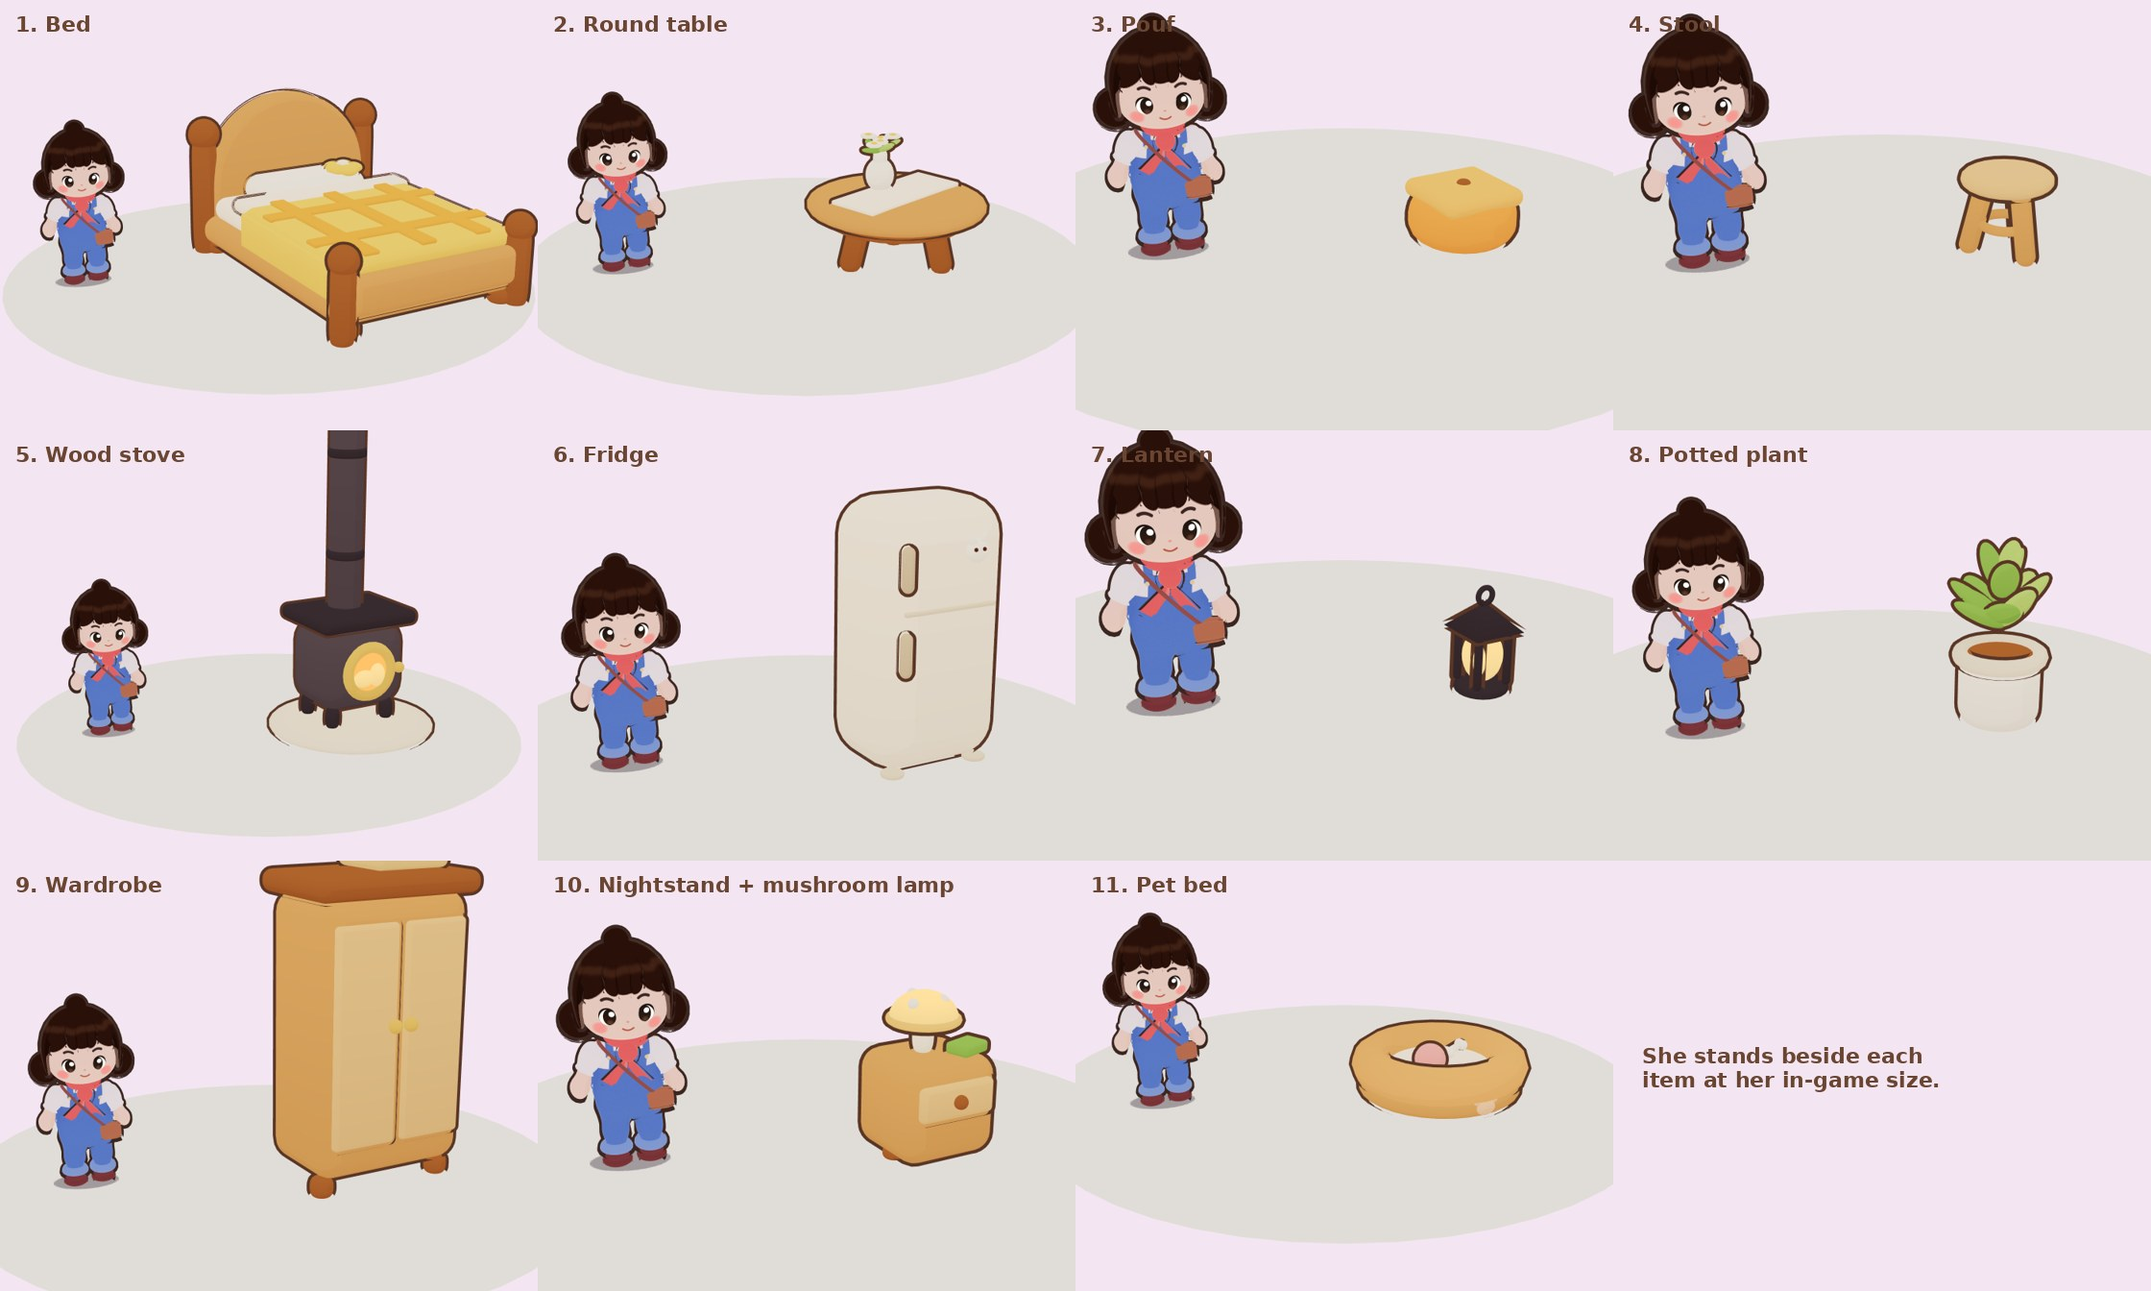
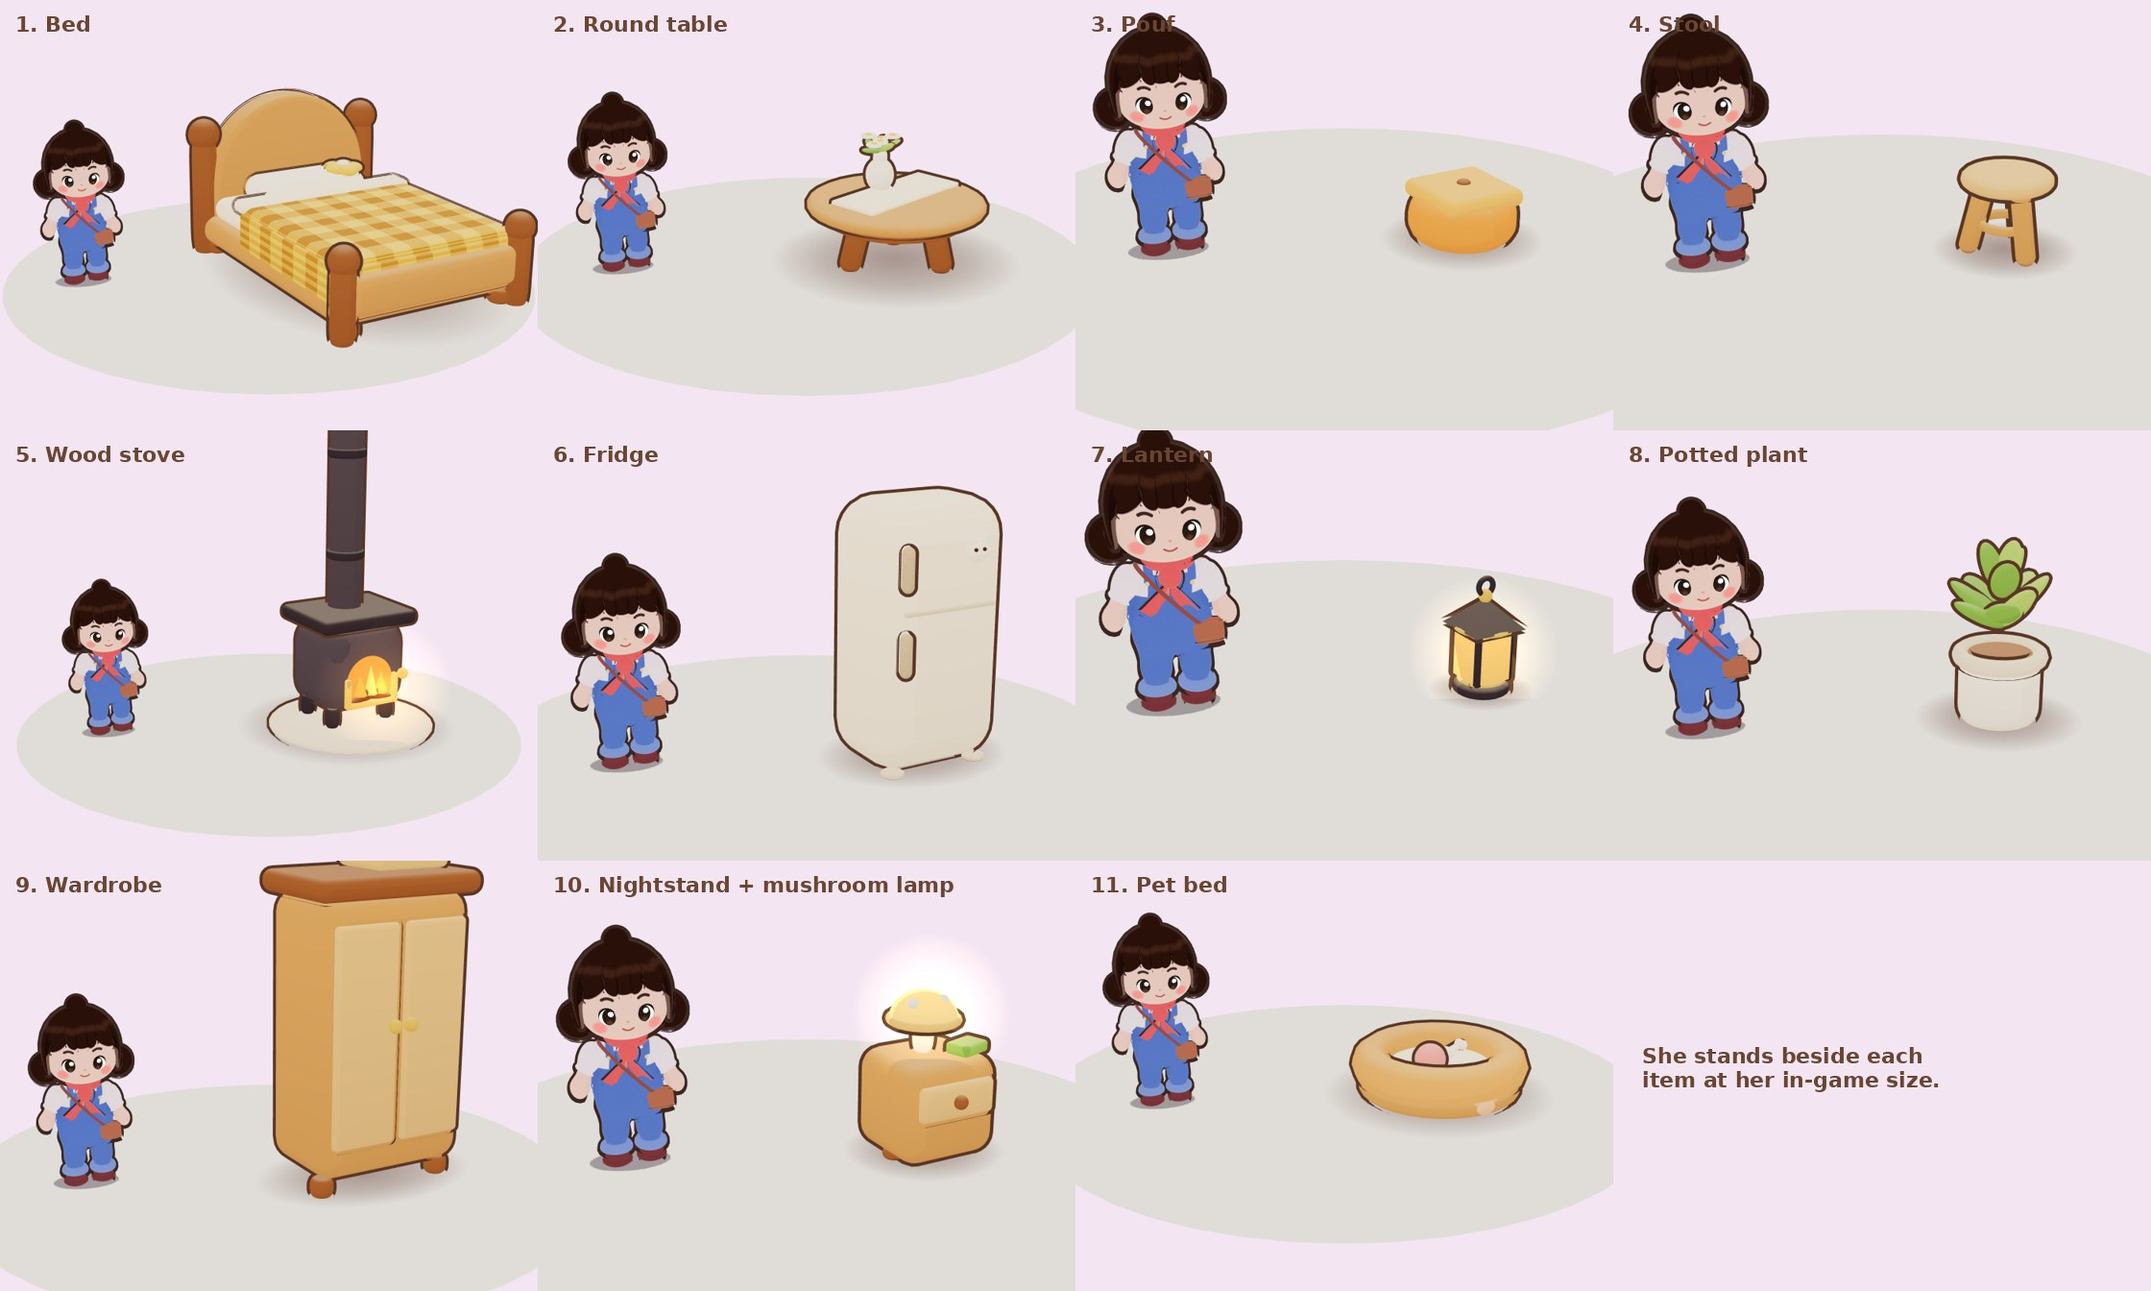
Prop kit: contact shadows, top sheen, gingham fabric, warm glow halos
Kit-level (every prop): a soft warm contact shadow under each item, a
creamy sheen on up-facing surfaces baked into the vertex colours, a
gingham textile material for quilts/cushions, and additive halo sprites
for light sources. Items: the bed quilt is real gingham instead of raised
bars; the lantern has warm glass panes and a bright core; the wood stove
shows logs and flames behind an arched window; the mushroom lamp glows.

Claude-Session: https://claude.ai/code/session_01CNaBwL7WGoZ8QVtCgzA9vc

diff --git a/src/props/kit.js b/src/props/kit.js
@@ -31,6 +31,18 @@ const ramp = new Uint8Array([196, 150, 140, 255, 236, 212, 196, 255, 255, 255, 2
 export const RAMP = new THREE.DataTexture(ramp, 3, 1, THREE.RGBAFormat); RAMP.minFilter = RAMP.magFilter = THREE.NearestFilter; RAMP.needsUpdate = true
 export const MAT = new THREE.MeshToonMaterial({ vertexColors: true, gradientMap: RAMP, emissive: new THREE.Color('#3a2418'), emissiveIntensity: 0.18 })
 export const GLOW = new THREE.MeshBasicMaterial({ vertexColors: true, toneMapped: false })
+// soft textiles: a white/grey gingham multiplied by the part's colour (quilts, cushions, tablecloths)
+const canvas = (n, draw) => { const c = document.createElement('canvas'); c.width = c.height = n; draw(c.getContext('2d'), n); const t = new THREE.CanvasTexture(c); t.colorSpace = THREE.SRGBColorSpace; return t }
+const gingham = canvas(64, (x, n) => { x.fillStyle = '#fff'; x.fillRect(0, 0, n, n); x.fillStyle = 'rgba(150,95,40,.22)'; x.fillRect(0, 0, n / 2, n); x.fillRect(0, 0, n, n / 2); x.fillStyle = 'rgba(150,95,40,.2)'; x.fillRect(0, 0, n / 2, n / 2); x.fillStyle = 'rgba(255,255,255,.7)'; x.fillRect(n / 2 - 1, 0, 2, n); x.fillRect(0, n / 2 - 1, n, 2) })
+gingham.wrapS = gingham.wrapT = THREE.RepeatWrapping; gingham.anisotropy = 4
+export const PATTERNS = { gingham: new THREE.MeshToonMaterial({ vertexColors: true, gradientMap: RAMP, map: gingham, emissive: new THREE.Color('#3a2418'), emissiveIntensity: 0.18 }) }
+const radial = (stops) => canvas(128, (x, n) => { const g = x.createRadialGradient(n / 2, n / 2, 0, n / 2, n / 2, n / 2); stops.forEach(([o, c]) => g.addColorStop(o, c)); x.fillStyle = g; x.fillRect(0, 0, n, n) })
+// grounding: a soft warm contact shadow under every prop
+export const SHADOW = new THREE.MeshBasicMaterial({ map: radial([[0, 'rgba(90,50,40,.42)'], [0.55, 'rgba(90,50,40,.24)'], [1, 'rgba(90,50,40,0)']]), transparent: true, depthWrite: false, toneMapped: false, polygonOffset: true, polygonOffsetFactor: -2 })
+// warm halo billboard around lamps / fire (additive)
+const HALO_TEX = radial([[0, 'rgba(255,255,255,.9)'], [0.25, 'rgba(255,255,255,.35)'], [1, 'rgba(255,255,255,0)']])
+const haloMats = new Map()
+const haloMat = (c) => { if (!haloMats.has(c)) haloMats.set(c, new THREE.SpriteMaterial({ map: HALO_TEX, color: c, transparent: true, depthWrite: false, blending: THREE.AdditiveBlending, toneMapped: false, opacity: 0.55 })); return haloMats.get(c) }
 // view-space inverted-hull outline (same trick as the characters), chunky and soft brown
 const OUT_VS = `uniform float uT; void main(){ vec4 mv = modelViewMatrix*vec4(position,1.); vec3 n = normalize(normalMatrix*normal);
   mv.xyz += n*uT*(0.65 + 0.35*clamp(-mv.z*.35,0.,2.)); gl_Position = projectionMatrix*mv; }`
@@ -52,6 +64,7 @@ function pillGeo(b = 0.25, seg = 24) {
 }
 // a rounded box of size s with edge radius r (true radius, not scaled): built per size so the corners stay round
 function rbox(s, r) { const k = `rbx${s.map(x => x.toFixed(3))}|${r.toFixed(3)}`; return cache(k, () => { const rr = Math.min(r, ...s.map(x => x / 2 - 1e-3)); return new RoundedBoxGeometry(s[0], s[1], s[2], 3, rr) }) }
+const shadowGeo = () => cache('shadow', () => new THREE.PlaneGeometry(1, 1).rotateX(-Math.PI / 2))
 const sph = () => cache('sph', () => new THREE.SphereGeometry(1, 20, 14))
 const half = () => cache('half', () => new THREE.SphereGeometry(1, 20, 10, 0, Math.PI * 2, 0, Math.PI / 2))
 const tor = (t = 0.3) => cache('tor' + t, () => new THREE.TorusGeometry(1, t, 10, 28))
@@ -68,21 +81,29 @@ function archGeo(w, hr, d, bevel) { return cache(`arch${w},${hr},${d},${bevel}`,
 // ---------- the builder ----------
 const _m = new THREE.Matrix4(), _q = new THREE.Quaternion(), _e = new THREE.Euler(), _v = new THREE.Vector3(), _s = new THREE.Vector3()
 class Builder {
-  constructor(pal) { this.pal = pal; this.parts = []; this.glow = []; this.base = [] }
+  constructor(pal) { this.pal = pal; this.parts = []; this.glow = []; this.pattern = {}; this.halos = [] }
   c(name) { return col(this.pal[name] ?? name) }
-  // add geometry g with transform; o: { rot, scale, out (outline? default true), glow, shade (0..1 bottom darkening) }
+  // add geometry g with transform; o: { rot, scale, out (outline? default true), glow, shade (0..1 bottom darkening),
+  //   hi (0..1 sheen on up-facing surfaces), pattern ('gingham'), tile (pattern repeats across the part) }
   add(g, pos = [0, 0, 0], name = 'wood', o = {}) {
-    const geo = g.index ? g.toNonIndexed() : g.clone(); for (const a of Object.keys(geo.attributes)) if (a !== 'position' && a !== 'normal') geo.deleteAttribute(a)
+    const keepUV = !!o.pattern, geo = g.index ? g.toNonIndexed() : g.clone(); for (const a of Object.keys(geo.attributes)) if (a !== 'position' && a !== 'normal' && !(keepUV && a === 'uv')) geo.deleteAttribute(a)
     if (!geo.attributes.normal) geo.computeVertexNormals()
-    // soft painted gradient: each part a touch darker toward its own base (reads as ambient occlusion)
-    geo.computeBoundingBox(); const bb = geo.boundingBox, c = this.c(name), sh = o.shade ?? 0.14, p = geo.attributes.position, cols = new Float32Array(p.count * 3)
-    for (let i = 0; i < p.count; i++) { const t = (p.getY(i) - bb.min.y) / Math.max(1e-6, bb.max.y - bb.min.y), k = 1 - sh * (1 - t) ** 1.5; cols[i * 3] = c.r * k; cols[i * 3 + 1] = c.g * k; cols[i * 3 + 2] = c.b * k }
-    geo.setAttribute('color', new THREE.BufferAttribute(cols, 3))
+    if (keepUV) { const uv = geo.attributes.uv; if (!uv) throw new Error('pattern part needs uvs'); const t = o.tile ?? 6; for (let i = 0; i < uv.count; i++) uv.setXY(i, uv.getX(i) * t, uv.getY(i) * t) }
+    geo.computeBoundingBox(); const bb = geo.boundingBox, p = geo.attributes.position, ts = new Float32Array(p.count)
+    for (let i = 0; i < p.count; i++) ts[i] = (p.getY(i) - bb.min.y) / Math.max(1e-6, bb.max.y - bb.min.y)
     _e.set(...(o.rot || [0, 0, 0]), o.order || 'XYZ'); _q.setFromEuler(_e); const s = o.scale ?? 1; _s.set(...(Array.isArray(s) ? s : [s, s, s]))
     geo.applyMatrix4(_m.compose(_v.set(...pos), _q, _s))
-    ;(o.glow ? this.glow : this.parts).push({ geo, out: o.out !== false && !o.glow })
+    // painted colour: a touch darker toward the part's own base (soft occlusion) and a creamy sheen where it faces up
+    const c = this.c(name), sh = o.shade ?? 0.14, hi = o.glow ? 0 : (o.hi ?? 0.16), n = geo.attributes.normal, cols = new Float32Array(p.count * 3)
+    for (let i = 0; i < p.count; i++) { const k = 1 - sh * (1 - ts[i]) ** 1.5, up = Math.max(0, Math.min(1, (n.getY(i) - 0.45) / 0.5)), h = hi * up * up
+      cols[i * 3] = c.r * k + (1 - c.r * k) * h; cols[i * 3 + 1] = c.g * k + (1 - c.g * k) * h * 0.92; cols[i * 3 + 2] = c.b * k + (1 - c.b * k) * h * 0.8 }
+    geo.setAttribute('color', new THREE.BufferAttribute(cols, 3))
+    const item = { geo, out: o.out !== false && !o.glow }
+    if (o.glow) this.glow.push(item); else if (o.pattern) (this.pattern[o.pattern] = this.pattern[o.pattern] || []).push(item); else this.parts.push(item)
     return this
   }
+  // a soft additive glow around a light source (a camera-facing sprite; one draw call)
+  halo(pos, r, color = '#ffc870') { this.halos.push({ pos, r, color }); return this }
   // ---- shorthands (sizes are full sizes unless noted) ----
   box(size, pos, name, o = {}) { return this.add(rbox(size, o.r ?? Math.min(...size) * 0.22), pos, name, o) } // rounded box, edge radius r
   puff(size, pos, name, o = {}) { return this.add(puffGeo(size, o.bulge ?? 0.35), pos, name, o) } // cushion / mattress / pouf top
@@ -99,11 +120,15 @@ class Builder {
       this.ball([l * 0.26, l * 0.5, l * 0.11], [pos[0] + Math.sin(a) * rr, pos[1] + (o.up ?? 0) + Math.cos(tilt) * l * 0.5 + (i % 2) * l * 0.08, pos[2] + Math.cos(a) * rr], i % 3 === 0 ? (o.alt || 'leafLight') : name, { rot: [tilt, a, 0], order: 'YXZ', out: o.out ?? true }) } return this }
   // a daisy (white petals + yellow eye) facing up
   daisy(pos, r = 0.02, petal = 'white', eye = 'quilt') { for (let i = 0; i < 6; i++) { const a = i / 6 * Math.PI * 2; this.ball([r * 0.5, r * 0.2, r * 0.28], [pos[0] + Math.sin(a) * r * 0.55, pos[1], pos[2] + Math.cos(a) * r * 0.55], petal, { rot: [0, a, 0], out: false }) } return this.ball([r * 0.36, r * 0.22, r * 0.36], [pos[0], pos[1] + r * 0.08, pos[2]], eye, { out: false }) }
-  bake() {
+  bake(size, o = {}) {
     const g = new THREE.Group()
-    if (this.parts.length) { const all = mergeGeometries(this.parts.map(p => p.geo)), outl = this.parts.filter(p => p.out).map(p => p.geo)
-      g.add(new THREE.Mesh(all, MAT)); if (outl.length) { const om = new THREE.Mesh(outl.length === this.parts.length ? all : mergeGeometries(outl), OUTLINE); om.userData.outline = true; g.add(om) } }
+    if (o.shadow !== false && size) { const sm = new THREE.Mesh(shadowGeo(), SHADOW); sm.scale.set(size[0] * 1.25 + 0.04, 1, size[2] * 1.25 + 0.04); sm.position.y = 0.003; sm.renderOrder = -1; g.add(sm) }
+    if (this.parts.length) g.add(new THREE.Mesh(mergeGeometries(this.parts.map(p => p.geo)), MAT))
+    for (const [k, list] of Object.entries(this.pattern)) g.add(new THREE.Mesh(mergeGeometries(list.map(p => p.geo)), PATTERNS[k]))
+    const outl = [...this.parts, ...Object.values(this.pattern).flat()].filter(p => p.out).map(p => { const c = p.geo.clone(); if (c.attributes.uv) c.deleteAttribute('uv'); return c })
+    if (outl.length) { const om = new THREE.Mesh(mergeGeometries(outl), OUTLINE); om.userData.outline = true; g.add(om) }
     if (this.glow.length) g.add(new THREE.Mesh(mergeGeometries(this.glow.map(p => p.geo)), GLOW))
+    for (const h of this.halos) { const sp = new THREE.Sprite(haloMat(h.color)); sp.position.set(...h.pos); sp.scale.setScalar(h.r * 2); sp.renderOrder = 5; g.add(sp) }
     g.traverse(o => { if (o.isMesh) { o.castShadow = false; o.receiveShadow = false } })
     return g
   }
@@ -117,8 +142,8 @@ const made = new Map()
 export function makeProp(id, o = {}) {
   const def = CATALOG[id]; if (!def) throw new Error('unknown prop ' + id)
   const key = id + JSON.stringify(o)
-  if (!made.has(key)) { const k = new Builder({ ...def.pal, ...(o.pal || {}) }); def.build(k, { ...def.opts, ...o }); made.set(key, k.bake()) }
-  const src = made.get(key), g = new THREE.Group(); src.children.forEach(m => g.add(new THREE.Mesh(m.geometry, m.material))); g.userData.prop = id; return g
+  if (!made.has(key)) { const k = new Builder({ ...def.pal, ...(o.pal || {}) }); def.build(k, { ...def.opts, ...o }); made.set(key, k.bake(def.size, { ...def.opts, ...o })) }
+  const src = made.get(key), g = new THREE.Group(); src.children.forEach(m => g.add(m.clone())); g.userData.prop = id; return g
 }
 // floor footprint (x/z box around the origin, after a yaw of 0 / 90 / 180 / 270 deg) for collision lists like home BLOCKS
 export function footprint(id, x, z, yaw = 0, pad = 0) { const [w, , d] = CATALOG[id].size, q = Math.round(yaw / (Math.PI / 2)) & 1, hw = (q ? d : w) / 2 + pad, hd = (q ? w : d) / 2 + pad; return { id, x0: x - hw, x1: x + hw, z0: z - hd, z1: z + hd } }

diff --git a/src/props/items/home.js b/src/props/items/home.js
@@ -18,11 +18,10 @@ defineProp('bed', { name: 'Bed', size: [0.5, 0.34, 0.72], tags: ['bedroom'], pal
   // mattress, pillow, quilt with a folded-back sheet and fat stripes, flower cushion
   k.puff([0.45, 0.06, 0.62], [0, 0.12, 0], 'sheet', { bulge: 0.25 })
   k.puff([0.3, 0.065, 0.14], [0, 0.17, -0.22], 'pillow', { bulge: 0.6 })
-  k.puff([0.48, 0.045, 0.44], [0, 0.155, 0.1], 'quilt', { bulge: 0.3 })
+  k.puff([0.48, 0.045, 0.44], [0, 0.155, 0.1], 'quilt', { bulge: 0.3, pattern: 'gingham', tile: 5 })
   k.puff([0.48, 0.032, 0.07], [0, 0.17, -0.13], 'sheet', { bulge: 0.4 })
-  for (const x of [-0.15, 0, 0.15]) k.box([0.04, 0.01, 0.42], [x, 0.18, 0.105], 'stripe', { r: 0.004, out: false })
-  for (const z of [0.0, 0.2]) k.box([0.47, 0.01, 0.04], [0, 0.18, z], 'stripe', { r: 0.004, out: false })
-  for (const s of [-1, 1]) k.puff([0.012, 0.09, 0.42], [s * 0.24, 0.12, 0.1], 'quilt', { bulge: 0.1, out: false })
+  for (const s of [-1, 1]) k.puff([0.014, 0.09, 0.42], [s * 0.242, 0.12, 0.1], 'quilt', { bulge: 0.1, out: false, pattern: 'gingham', tile: 4 })
+  k.puff([0.46, 0.08, 0.014], [0, 0.12, 0.322], 'quilt', { bulge: 0.1, out: false, pattern: 'gingham', tile: 5 })
   for (let i = 0; i < 5; i++) { const a = i / 5 * PI * 2; k.ball([0.026, 0.014, 0.026], [0.1 + Math.sin(a) * 0.026, 0.21, -0.2 + Math.cos(a) * 0.026], 'flower') }
   k.ball([0.018, 0.016, 0.018], [0.1, 0.216, -0.2], 'cream', { out: false })
 })
@@ -54,10 +53,14 @@ defineProp('woodStove', { name: 'Wood stove', size: [0.42, 0.9, 0.42], tags: ['k
   for (const sx of [-1, 1]) for (const sz of [-1, 1]) k.pill([0.018, 0.05], [sx * 0.08, 0.055, sz * 0.06], 'dark', { bevel: 0.4 })
   k.box([0.24, 0.22, 0.2], [0, 0.18, 0], 'body', { r: 0.06 })
   k.box([0.27, 0.035, 0.22], [0, 0.3, 0], 'dark', { r: 0.015 })
-  k.ring(0.062, 0.014, [0, 0.175, 0.1], 'trim', { out: false })
-  k.pill([0.058, 0.01], [0, 0.175, 0.098], 'flame', { rot: [PI / 2, 0, 0], glow: true })
-  k.ball([0.03, 0.022, 0.012], [-0.018, 0.16, 0.105], 'glow', { glow: true }); k.ball([0.022, 0.03, 0.012], [0.02, 0.165, 0.105], 'glow', { glow: true })
-  k.knob([0.085, 0.175, 0.105], 'trim', 0.014)
+  // firebox window: warm glowing back, two logs, licking flames, an arched brass frame
+  k.arch(0.13, 0.05, 0.02, [0, 0.1, 0.095], '#ff9a3c', { glow: true, bevel: 0 })
+  for (const [x, a] of [[-0.02, 0.35], [0.02, -0.35]]) k.stick([0.012, 0.09], [x, 0.112, 0.106], '#7a4426', { rot: [0, 0, PI / 2 + a], out: false })
+  for (const [x, h, c] of [[-0.03, 0.05, '#ffb347'], [0.0, 0.075, '#ffd36a'], [0.03, 0.055, '#ffb347'], [0.0, 0.04, '#fff0b8']]) k.cone([0.018, h], [x, 0.12 + h / 2, 0.108], c, { glow: true, n: 8 })
+  k.box([0.15, 0.016, 0.02], [0, 0.098, 0.112], 'trim', { r: 0.006, out: false })
+  for (const s of [-1, 1]) k.box([0.014, 0.07, 0.02], [s * 0.068, 0.132, 0.112], 'trim', { r: 0.006, out: false })
+  k.halo([0, 0.15, 0.16], 0.17, '#ffa050')
+  k.knob([0.092, 0.16, 0.112], 'trim', 0.014)
   k.pill([0.042, 0.52], [0, 0.57, -0.02], 'body', { bevel: 0.03 })
   for (const y of [0.45, 0.7]) k.pill([0.048, 0.025], [0, y, -0.02], 'dark', { bevel: 0.3, out: false })
   k.pill([0.05, 0.03], [0, 0.84, -0.02], 'dark', { bevel: 0.3 })
@@ -74,13 +77,17 @@ defineProp('fridge', { name: 'Fridge', size: [0.27, 0.5, 0.22], tags: ['kitchen'
   for (const s of [-1, 1]) k.ball(0.0035, [0.05 + s * 0.009, 0.412, 0.116], 'ink', { out: false })
 })
 
-defineProp('lantern', { name: 'Lantern', size: [0.09, 0.16, 0.09], tags: ['light', 'outdoor'], pal: { cage: 'ironDark', core: 'glow' }, opts: { hang: false } }, (k, o) => {
-  k.pill([0.04, 0.018], [0, 0.009, 0], 'cage', { bevel: 0.4 })
-  k.ball([0.03, 0.04, 0.03], [0, 0.058, 0], 'core', { glow: true })
-  for (let i = 0; i < 4; i++) { const a = i / 4 * PI * 2 + PI / 4; k.stick([0.006, 0.085], [Math.sin(a) * 0.036, 0.058, Math.cos(a) * 0.036], 'cage') }
-  k.cone([0.058, 0.04], [0, 0.118, 0], 'cage', { n: 4, rot: [0, PI / 4, 0] })
-  k.ring(0.012, 0.004, [0, 0.148, 0], 'cage', { out: false })
-  if (o.hang) k.stick([0.003, 0.12], [0, 0.21, 0], 'cage', { out: false })
+defineProp('lantern', { name: 'Lantern', size: [0.09, 0.16, 0.09], tags: ['light', 'outdoor'], pal: { cage: 'ironDark', trim: 'brass', glass: '#ffd27a', core: '#fff3cf' }, opts: { hang: false } }, (k, o) => {
+  k.pill([0.042, 0.02], [0, 0.01, 0], 'cage', { bevel: 0.4 })
+  k.pill([0.036, 0.008], [0, 0.022, 0], 'trim', { bevel: 0.4, out: false })
+  for (let i = 0; i < 4; i++) { const a = i / 4 * PI * 2; k.box([0.05, 0.072, 0.006], [Math.sin(a) * 0.031, 0.062, Math.cos(a) * 0.031], 'glass', { r: 0.002, rot: [0, a, 0], glow: true }) }
+  k.ball([0.016, 0.024, 0.016], [0, 0.06, 0], 'core', { glow: true })
+  for (let i = 0; i < 4; i++) { const a = i / 4 * PI * 2 + PI / 4; k.stick([0.0065, 0.082], [Math.sin(a) * 0.037, 0.062, Math.cos(a) * 0.037], 'cage') }
+  k.pill([0.044, 0.01], [0, 0.102, 0], 'trim', { bevel: 0.4, out: false })
+  k.cone([0.06, 0.042], [0, 0.124, 0], 'cage', { n: 4, rot: [0, PI / 4, 0] })
+  k.ball(0.01, [0, 0.148, 0], 'trim', { out: false }); k.ring(0.012, 0.004, [0, 0.162, 0], 'cage', { out: false })
+  if (o.hang) k.stick([0.003, 0.12], [0, 0.23, 0], 'cage', { out: false })
+  k.halo([0, 0.062, 0], 0.11)
 })
 
 defineProp('plant', { name: 'Potted plant', size: [0.2, 0.3, 0.2], tags: ['plant', 'outdoor'], pal: { pot: 'pot', rim: 'potRim', soil: 'woodDark', leaf: 'leaf' }, opts: { flowers: false, big: false } }, (k, o) => {
@@ -107,6 +114,7 @@ defineProp('nightstand', { name: 'Nightstand + mushroom lamp', size: [0.19, 0.3,
   for (const sx of [-1, 1]) k.pill([0.02, 0.02], [sx * 0.06, 0.01, 0], 'knob', { bevel: 0.4, out: false })
   k.pill([0.018, 0.06], [-0.01, 0.21, 0], 'stem', { bevel: 0.4 })
   k.dome([0.058, 0.048, 0.058], [-0.01, 0.235, 0], 'cap', { glow: true })
+  k.halo([-0.01, 0.25, 0.02], 0.13)
   k.ring(0.056, 0.007, [-0.01, 0.236, 0], '#f4c070', { rot: [PI / 2, 0, 0] })
   for (const [x, z] of [[0.02, 0.025], [-0.035, 0.02], [0.0, -0.035]]) k.ball(0.009, [-0.01 + x, 0.27, z], 'white', { out: false })
   k.box([0.06, 0.02, 0.045], [0.05, 0.19, 0.04], 'leaf', { r: 0.006, rot: [0, 0.3, 0] })
